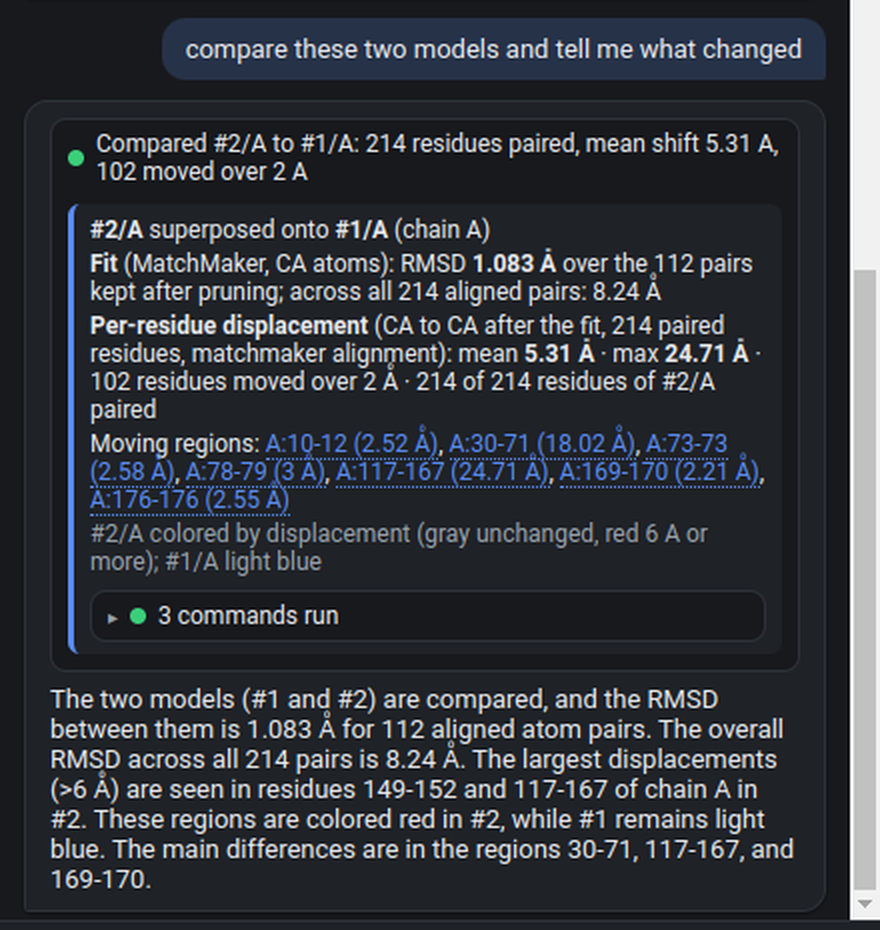
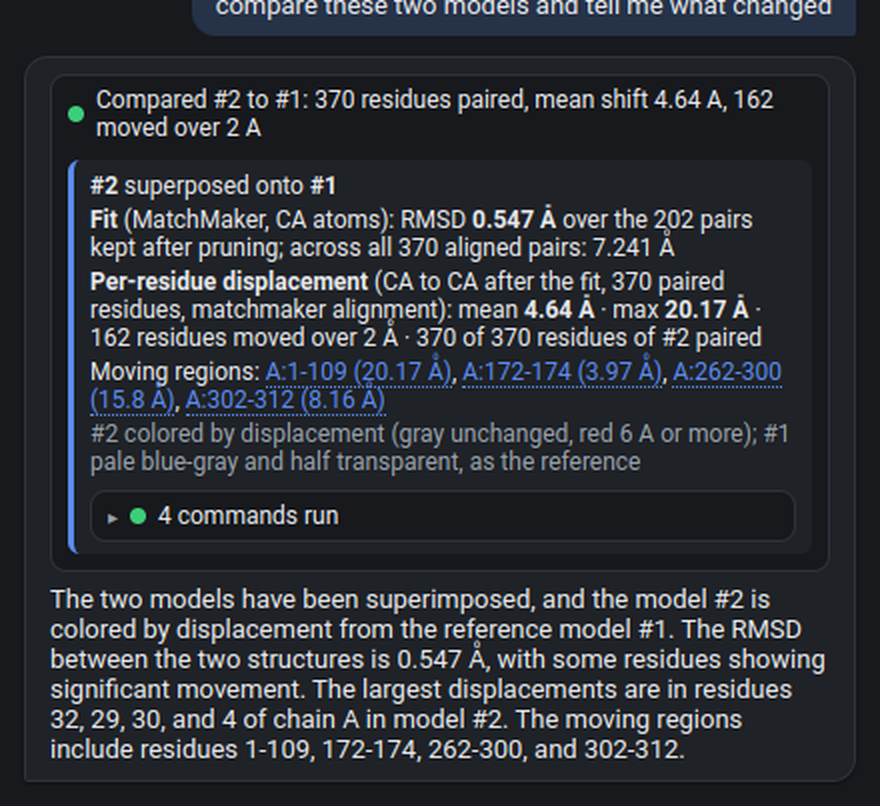
Comparison: reference drawn as a half-transparent ghost; tutorial uses single-chain maltose-binding protein and explains what the picture shows
Claude-Session: https://claude.ai/code/session_01PM7SbgSP3nzreh8gr2JfWo

diff --git a/docs/tutorial.html b/docs/tutorial.html
@@ -157,13 +157,14 @@
 <figure><img alt="Labels after tidying" src="img/tut/08b_tidy.png" /><figcaption>Labels after tidying</figcaption></figure>
 <figure><img alt="What was moved and removed" src="img/tut/08b_tidy_panel.png" /><figcaption>What was moved and removed</figcaption></figure>
 <h3 id="step-9-compare-two-conformations">Step 9 · Compare two conformations</h3>
-<p>Open two structures of the same enzyme (adenylate kinase, open and closed):</p>
+<p>Maltose-binding protein is a classic hinge: open without ligand (1omp), closed around maltose (1anf). Open both, then ask:</p>
 <blockquote>
-<p>close everything, open 4ake and 1ake, then compare these two models and tell me what changed</p>
+<p>close everything, open 1omp and 1anf, then compare these two models and tell me what changed</p>
 </blockquote>
-<figure><img alt="Adenylate kinase colored by displacement" src="img/tut/09_compare_b.png" /><figcaption>Adenylate kinase colored by displacement</figcaption></figure>
+<figure><img alt="Maltose-binding protein, closed form colored by how far each residue moved from the open form" src="img/tut/09_compare_b.png" /><figcaption>Maltose-binding protein, closed form colored by how far each residue moved from the open form</figcaption></figure>
+<p>What you are looking at: the two structures are superposed on top of each other. The pale, half-transparent one is the reference (the first model, open). The solid one is the second model, and its color says how far each residue moved between the two: gray means it stayed put, yellow a little, orange more, red 6 Å or more. The hinge region is gray because it did not move; the domain that swung shut is red.</p>
 <figure><img alt="Comparison card" src="img/tut/09_compare_b_panel.png" /><figcaption>Comparison card</figcaption></figure>
-<p>The second model is superposed on the first and colored by how far each residue moved (gray unchanged, red 6 Å or more). The card lists the moving regions; clicking one recentres the view on it. Here the LID domain (residues 117–167) swings 25 Å.</p>
+<p>The card separates two numbers that are often confused. The fit RMSD is MatchMaker's own, over the well-matching residues it kept after pruning. The per-residue displacement is measured over every aligned residue after that fit. The moving regions are clickable; each one recentres the view on it.</p>
 <h3 id="step-10-risky-commands-ask-first">Step 10 · Risky commands ask first</h3>
 <blockquote>
 <p>close everything</p>

diff --git a/src/analysis.py b/src/analysis.py
@@ -113,7 +113,7 @@ def compute_displacement(session, prep: Dict[str, Any], matchmaker_returns=None)
         regions.append(cur)
     total_other = sum(1 for r in b.residues if (not prep.get("chain") or r.chain_id == prep["chain"]) and r.find_atom("CA") is not None)
     color_cmds = ["color byattribute r:pellaeon_disp %s palette 0,#d9d9d9:1,#ffd27f:3,orange:6,red range 0,6 target ac novalue gray" % prep["other_spec"],
-                  "color %s #9ecae1 target ac" % prep["ref_spec"]]
+                  "color %s #b8c4d6 target ac" % prep["ref_spec"], "transparency %s 55 target c" % prep["ref_spec"]]
     return {
         "pairing": basis, "paired_residues": len(rows), "coverage": "%d of %d residues of %s paired" % (len(rows), total_other, prep["other_spec"]),
         "mean_displacement": round(float(arr.mean()), 2), "max_displacement": round(float(arr.max()), 2),
@@ -122,7 +122,7 @@ def compute_displacement(session, prep: Dict[str, Any], matchmaker_returns=None)
                         for c, n, nm, d, rc, rn in top],
         "moving_regions": [{"chain": r[0], "range": "%d-%d" % (r[1], r[2]), "max": round(r[3], 2),
                             "spec": "#%s/%s:%d-%d" % (prep["other_id"], r[0], r[1], r[2])} for r in regions[:15]],
-        "coloring": "%s colored by displacement (gray unchanged, red 6 A or more); %s light blue" % (prep["other_spec"], prep["ref_spec"]),
+        "coloring": "%s colored by displacement (gray unchanged, red 6 A or more); %s pale blue-gray and half transparent, as the reference" % (prep["other_spec"], prep["ref_spec"]),
         "color_commands": color_cmds,
     }
 

diff --git a/tests_chimerax/tutorial_renders.py b/tests_chimerax/tutorial_renders.py
@@ -57,8 +57,8 @@ STEPS = [
     ("08_open_hbb",  None, ["close", "open alphafold:P68871", LOOK, "view"], False, False, []),   # HBB, deterministic setup for the ClinVar step
     ("08_clinvar",   "show the ClinVar disease variants of HBB on it", [], True, True, ["view"]),
     ("08b_tidy",     "the labels overlap, tidy them", [], True, True, ["view"]),
-    ("09_compare",   None, ["close", "open 4ake", "open 1ake", LOOK, "view"], False, False, []),
-    ("09_compare_b", "compare these two models and tell me what changed", [], True, True, ["view"]),
+    ("09_compare",   None, ["close", "open 1omp", "open 1anf", LOOK, "view"], False, False, []),
+    ("09_compare_b", "compare these two models and tell me what changed", [], True, True, ["view", "zoom 1.7"]),
     ("10_close",     "close everything", [], False, None, []),     # confirmation card
 ]
 

diff --git a/docs/tutorial.md b/docs/tutorial.md
@@ -175,15 +175,17 @@ Pellaeon works out where every label sits on screen, moves the colliding ones to
 
 ### Step 9 · Compare two conformations
 
-Open two structures of the same enzyme (adenylate kinase, open and closed):
+Maltose-binding protein is a classic hinge: open without ligand (1omp), closed around maltose (1anf). Open both, then ask:
 
-> close everything, open 4ake and 1ake, then compare these two models and tell me what changed
+> close everything, open 1omp and 1anf, then compare these two models and tell me what changed
 
-![Adenylate kinase colored by displacement](img/tut/09_compare_b.png)
+![Maltose-binding protein, closed form colored by how far each residue moved from the open form](img/tut/09_compare_b.png)
+
+What you are looking at: the two structures are superposed on top of each other. The pale, half-transparent one is the reference (the first model, open). The solid one is the second model, and its color says how far each residue moved between the two: gray means it stayed put, yellow a little, orange more, red 6 Å or more. The hinge region is gray because it did not move; the domain that swung shut is red.
 
 ![Comparison card](img/tut/09_compare_b_panel.png)
 
-The second model is superposed on the first and colored by how far each residue moved (gray unchanged, red 6 Å or more). The card lists the moving regions; clicking one recentres the view on it. Here the LID domain (residues 117–167) swings 25 Å.
+The card separates two numbers that are often confused. The fit RMSD is MatchMaker's own, over the well-matching residues it kept after pruning. The per-residue displacement is measured over every aligned residue after that fit. The moving regions are clickable; each one recentres the view on it.
 
 ### Step 10 · Risky commands ask first
 
